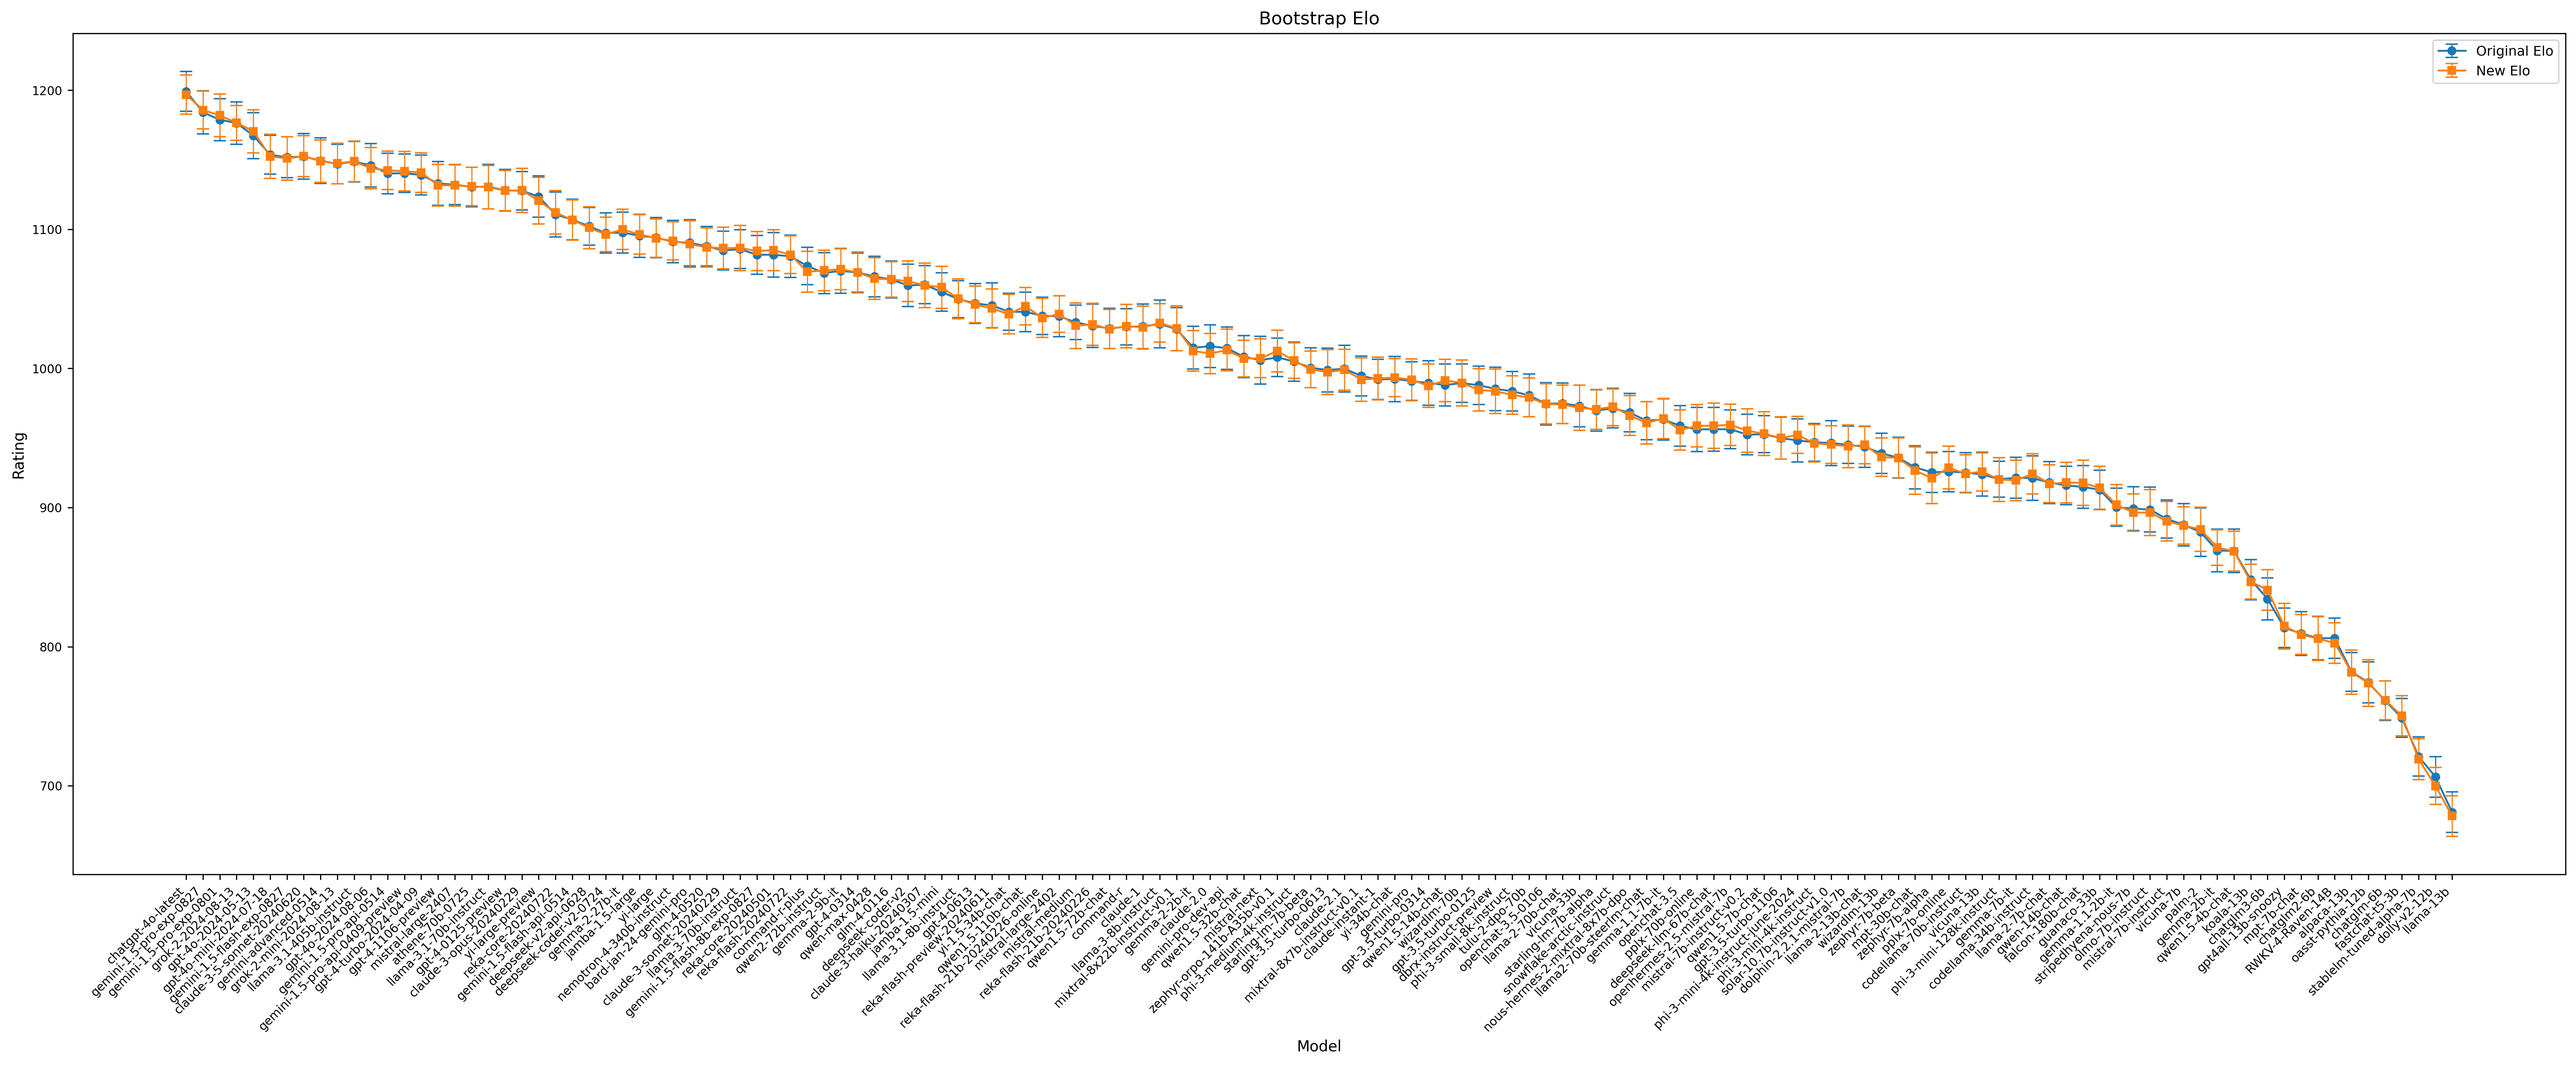
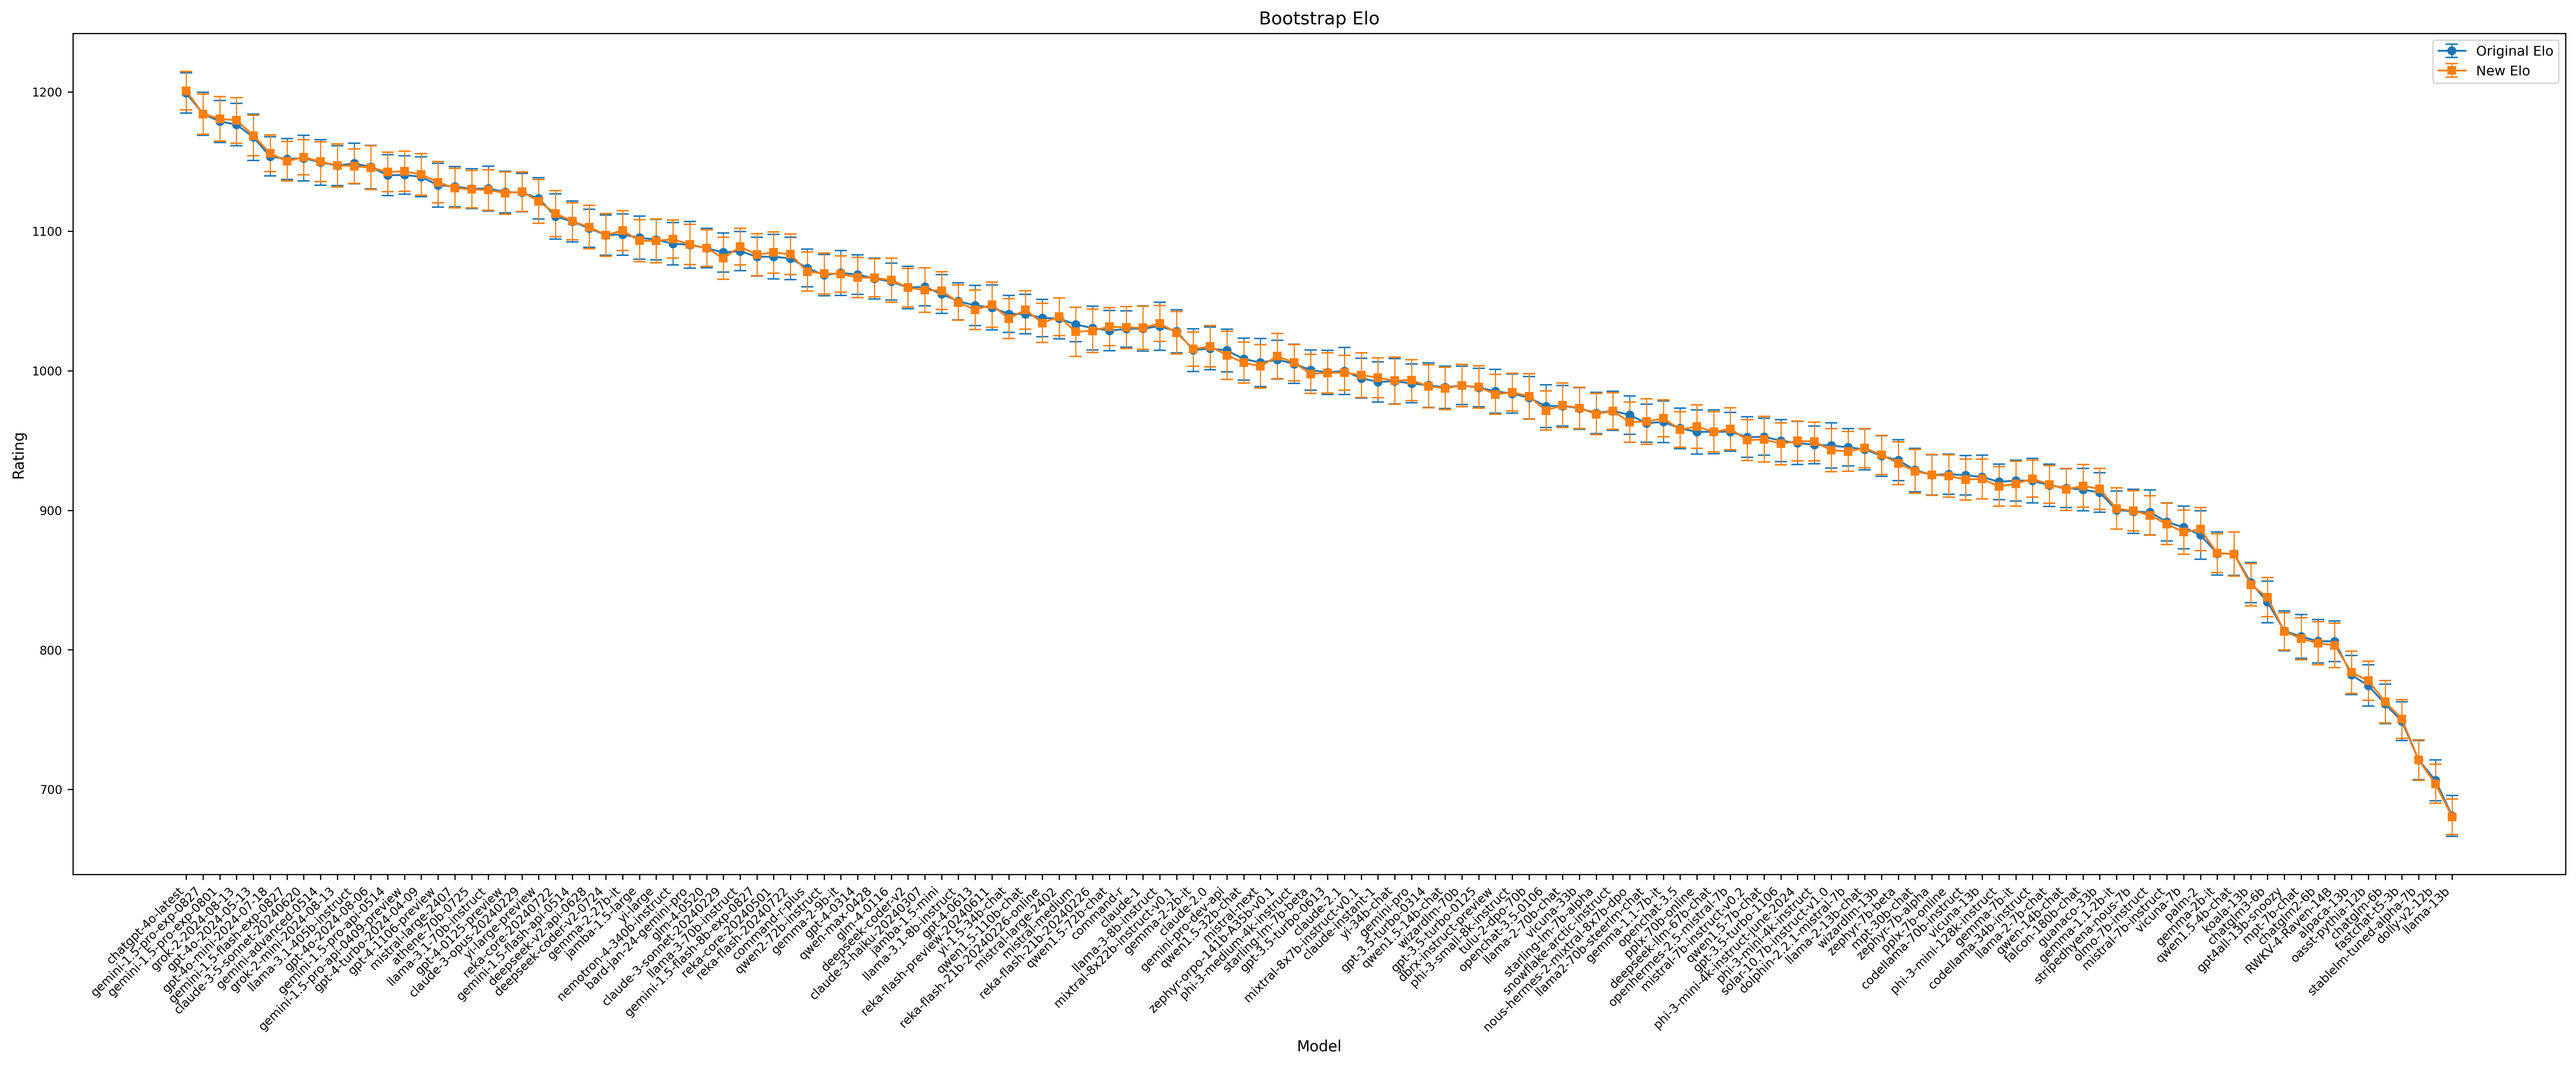
minimal repro

diff --git a/minimal_repro.py b/minimal_repro.py
@@ -1,0 +1,88 @@
+import io
+from contextlib import contextmanager
+import time
+import numpy as np
+import pandas as pd
+from data_utils import load_data
+from original import get_bootstrap_result, compute_mle_elo
+from rating_systems import compute_bt, compute_bootstrap_bt
+
+
+@contextmanager
+def timer(task_name=""):
+    start_time = time.time()
+    yield
+    end_time = time.time()
+    print(f"{task_name} duration (s): {end_time - start_time:.4f}")
+
+
+
+def bench_bt(df):
+    with timer('original bt'):
+        original_ratings = compute_mle_elo(df)
+    with timer('new bt'):
+        new_ratings = compute_bt(df)
+    diffs = [original_ratings[m] - new_ratings[m] for m in original_ratings.keys()]
+    print(f"mean abs diff: {np.mean(np.abs(diffs))}")
+
+
+
+def bench_bootstrap_bt(df, num_round, save_figs=False):
+    with timer('original bootstrap bt'):
+        original_ratings = get_bootstrap_result(df, compute_mle_elo, num_round)
+    with timer('new bootstrap bt'):
+        new_ratings = compute_bootstrap_bt(df, num_round=num_round)
+    
+    original_means = original_ratings.values.mean(axis=0)
+    new_means = new_ratings[original_ratings.columns].values.mean(axis=0)
+    print(f'mean abs diff in bootstrap means: {np.mean(np.abs(original_means - new_means))}')
+
+    original_stds = original_ratings.values.std(axis=0)
+    new_stds = new_ratings[original_ratings.columns].values.std(axis=0)
+    print(f'mean abs diff in bootstrap stds: {np.mean(np.abs(original_stds - new_stds))}')
+
+
+
+
+def main():
+    df = pd.read_json('data/clean_battle_20240826_public.json').sort_values(ascending=True, by=["tstamp"])
+    df = df[df["anony"] == True]
+    df = df[df["dedup_tag"].apply(lambda x: x.get("sampled", False))]
+
+    # df = load_data(use_preprocessed=True)
+    
+    num_round = 100
+
+    with timer('original bt'):
+        original_ratings = compute_mle_elo(df)
+
+    with timer('original bootstrap bt'):
+        original_boot_ratings = get_bootstrap_result(df, compute_mle_elo, num_round)
+
+    # route data through parquet
+    buffer = io.BytesIO()
+    df = df.reset_index(drop=True)
+    df.to_parquet(buffer)
+    df = pd.read_parquet(buffer)
+
+    with timer('new bt'):
+        new_ratings = compute_bt(df)
+
+    with timer('new bootstrap bt'):
+        new_boot_ratings = compute_bootstrap_bt(df, num_round=num_round)
+
+    diffs = [original_ratings[m] - new_ratings[m] for m in original_ratings.keys()]
+    print(f"mean abs diff in bt ratings: {np.mean(np.abs(diffs))}")
+
+    original_boot_means = original_boot_ratings.values.mean(axis=0)
+    new_boot_means = new_boot_ratings[original_boot_ratings.columns].values.mean(axis=0)
+    print(f'mean abs diff in bootstrap means: {np.mean(np.abs(original_boot_means - new_boot_means))}')
+
+    original_boot_stds = original_boot_ratings.values.std(axis=0)
+    new_boot_stds = new_boot_ratings[original_boot_ratings.columns].values.std(axis=0)
+    print(f'mean abs diff in bootstrap stds: {np.mean(np.abs(original_boot_stds - new_boot_stds))}')
+
+    
+
+if __name__ == '__main__':
+    main()

diff --git a/rating_systems.py b/rating_systems.py
@@ -1,4 +1,5 @@
 import os
+from tqdm import tqdm
 import math
 import multiprocessing as mp
 from functools import partial
@@ -147,7 +148,7 @@ def compute_bootstrap_elo(df, num_round=100, k=4.0, base=10.0, init_rating=1000.
     df = pd.DataFrame(data=ratings, columns=models)
     return df[df.median().sort_values(ascending=False).index]
 
-
+SIGN_FLIP = np.array([1.0, -1.0], dtype=np.float64)
 def bt_loss_and_grad(ratings, matchups, outcomes, weights, alpha=1.0):
     matchup_ratings = ratings[matchups]
     logits = alpha * (matchup_ratings[:,0] - matchup_ratings[:,1])
@@ -157,7 +158,7 @@ def bt_loss_and_grad(ratings, matchups, outcomes, weights, alpha=1.0):
     matchups_grads = -alpha * (outcomes - probs) * weights
     model_grad = np.zeros_like(ratings)
     # aggregate gradients at the model level using the indices in matchups
-    np.add.at(model_grad, matchups, matchups_grads[:, None] * np.array([1.0, -1.0], dtype=np.float64))
+    np.add.at(model_grad, matchups, matchups_grads[:, None] * SIGN_FLIP)
     return loss, model_grad
 
 
@@ -211,10 +212,11 @@ def compute_bootstrap_bt(battles, num_round, base=10.0, scale=400.0, init_rating
 
     # the only thing different across samples is the distribution of weights
     bt_fn = partial(fit_bt, matchups, outcomes, n_models=len(models), alpha=np.log(base), tol=tol)
+    ratings = np.empty(shape=(num_round, len(models)))
     with mp.Pool(os.cpu_count()) as pool:
-        results = pool.map(bt_fn, boot_weights)
+        for idx, result in enumerate(tqdm(pool.imap_unordered(bt_fn, boot_weights), total=num_round)):
+            ratings[idx,:] = result
 
-    ratings = np.array(results)
     scaled_ratings = scale_and_offset(ratings, models, scale, init_rating)
     df = pd.DataFrame(scaled_ratings, columns=models)
     return df[df.median().sort_values(ascending=False).index]

diff --git a/faster.py b/faster.py
@@ -1,4 +1,5 @@
 import os
+from tqdm import tqdm
 from functools import partial
 import multiprocessing as mp
 import numpy as np
@@ -85,10 +86,11 @@ def get_bootstrap_result(battles, num_round, BASE=10.0, SCALE=400.0, INIT_RATING
     # the only thing different across samples is the distribution of weights
     bt_fn = partial(fit_bt, matchups, outcomes, n_models=len(models), alpha=np.log(BASE), tol=tol)
 
+    ratings = np.empty(shape=(num_round, len(models)))
     with mp.Pool(os.cpu_count()) as pool:
-        results = pool.map(bt_fn, boot_weights)
+        for idx, result in enumerate(tqdm(pool.imap_unordered(bt_fn, boot_weights), total=num_round)):
+            ratings[idx,:] = result
 
-    ratings = np.array(results)
     scaled_ratings = scale_and_offset(ratings, models, SCALE, INIT_RATING)
     df = pd.DataFrame(scaled_ratings, columns=models)
     return df[df.median().sort_values(ascending=False).index]

diff --git a/full_benchmark.py b/full_benchmark.py
@@ -161,17 +161,19 @@ def bench_bootstrap_style_control(df, num_round, save_figs=False):
 
 
 def main():
-    # N = 2_000_000
+    N = 2_000_000_000
     # df = load_data(N=N, use_preprocessed=True)
-    df = load_data()
-    save_figs = True
+    df = load_data(N=N, use_preprocessed=False, route_through_parquet=True)
 
-    bench_elo(df)
+    # df = load_data()
+    save_figs = False
+
+    # bench_elo(df)
     bench_bt(df)
-    bench_style_control(df)
-    bench_bootstrap_elo(df, num_round=100, save_figs=save_figs)
+    # bench_style_control(df)
+    # bench_bootstrap_elo(df, num_round=100, save_figs=save_figs)
     bench_bootstrap_bt(df, num_round=100, save_figs=save_figs)
-    bench_bootstrap_style_control(df.tail(200_000), num_round=100, save_figs=save_figs)
+    # bench_bootstrap_style_control(df.tail(200_000), num_round=100, save_figs=save_figs)
 
 
 if __name__ == '__main__':
